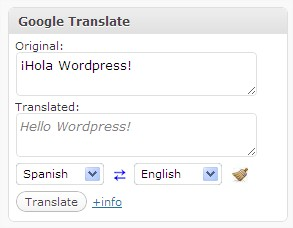
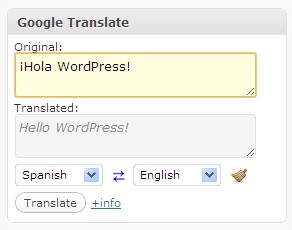
1.1: Usability improvements. Fix: avoid to translate empty string
git-svn-id: http://plugins.svn.wordpress.org/wp-translation-box/trunk@626717 b8457f37-d9ea-0310-8a92-e5e31aec5664

diff --git a/views/meta-box.php b/views/meta-box.php
@@ -1,27 +1,40 @@
 <?php 
 global $post;
 ?>
+<style>
+#untranslated_text {
+	margin-bottom: 5px;
+} 
+#translated_text {
+	background-color: #F5F5F5;
+	margin-bottom: 5px; 
+	color: #888888; 
+	font-style: italic
+}
+</style>
 <script src="https://www.google.com/jsapi?key=AIzaSyCHN5MMkFj4oGXrLc24XWGRM2XNtjiIYmI"></script>
 <script>
 google.load("language", "1");
 
 function wptranslationbox_translate() {
     untranslated_text = jQuery('#untranslated_text').val();
-   
-    google.language.translate(untranslated_text, jQuery('#source_lang').val(), jQuery('#dest_lang').val(), function(result) {
-        if (!result.error) {
-            jQuery('#translated_text').attr("value", result.translation);
-        } else {
-            alert(result.error.code + ": " + result.error.message);
-        }
-      });
 
+    if (untranslated_text != "") {
+		google.language.translate(untranslated_text, jQuery('#source_lang').val(), jQuery('#dest_lang').val(), function(result) {
+	    	if (!result.error) {
+	            jQuery('#translated_text').attr("value", result.translation);
+	        } else {
+	            alert(result.error.code + ": " + result.error.message);
+	        }
+	    });
+    }
 }
 
 function wptranslationbox_switch() {
 	tmp = jQuery('#source_lang').val();
 	jQuery('#source_lang').attr("value", jQuery('#dest_lang').val());
 	jQuery('#dest_lang').attr("value", tmp);
+	//wptranslationbox_translate();
 }
 
 function wptranslationbox_clear() {
@@ -49,7 +62,18 @@ jQuery(document).ready(function() {
     ?>
 
     jQuery('#source_lang').html(output.join('')).attr("value", "<?php echo $source_lang ?>").css("width", "8em").css("margin-bottom", "5px");
-    jQuery('#dest_lang').html(output.join('')).attr("value", "<?php echo $target_lang ?>").css("width", "8em").css("margin-bottom", "5px");;
+    jQuery('#dest_lang').html(output.join('')).attr("value", "<?php echo $target_lang ?>").css("width", "8em").css("margin-bottom", "5px");
+
+    jQuery('#untranslated_text').focus(function() {
+    	jQuery('#untranslated_text').css("background-color", "lightyellow"); 
+    }).blur(function() {
+    	jQuery('#untranslated_text').css("background-color", "white");
+    }).keypress(function(e) {
+    	if (e.which == 13) {
+    		wptranslationbox_translate();
+        	e.preventDefault();
+        }
+    });
   
 });
 
@@ -62,12 +86,12 @@ function selectAll (textarea) {
 
 <div>
     <label for="untranslated_text">Original:</label>
-    <textarea id="untranslated_text" cols="27" rows="2" style="margin-bottom:5px"></textarea>
+    <textarea id="untranslated_text" cols="27" rows="2"></textarea>
 </div>
 
 <div>
     <label for="translated_text">Translated:</label>
-    <textarea id="translated_text" cols="27" rows="2" style="margin-bottom:5px; color:grey; font-style:italic" readonly="true" onClick="selectAll(this);"></textarea>
+    <textarea id="translated_text" cols="27" rows="2" readonly="true" onClick="selectAll(this);"></textarea>
 </div>
 
 <div>

diff --git a/wp-googletranslate-box.php b/wp-googletranslate-box.php
@@ -4,7 +4,7 @@
  Plugin URI: http://danielpecos.com/projects/wp-googletranslate-box
  Description: Displays a box in the "Add New Post" page that allows you to quickly translate any text from and to different languages.
  Author: Daniel Pecos Martinez
- Version: 1.0
+ Version: 1.1
  Author URI: http://danielpecos.com/
  */
 if( !class_exists( 'WPGoogleTranslateBox' ) ) {
